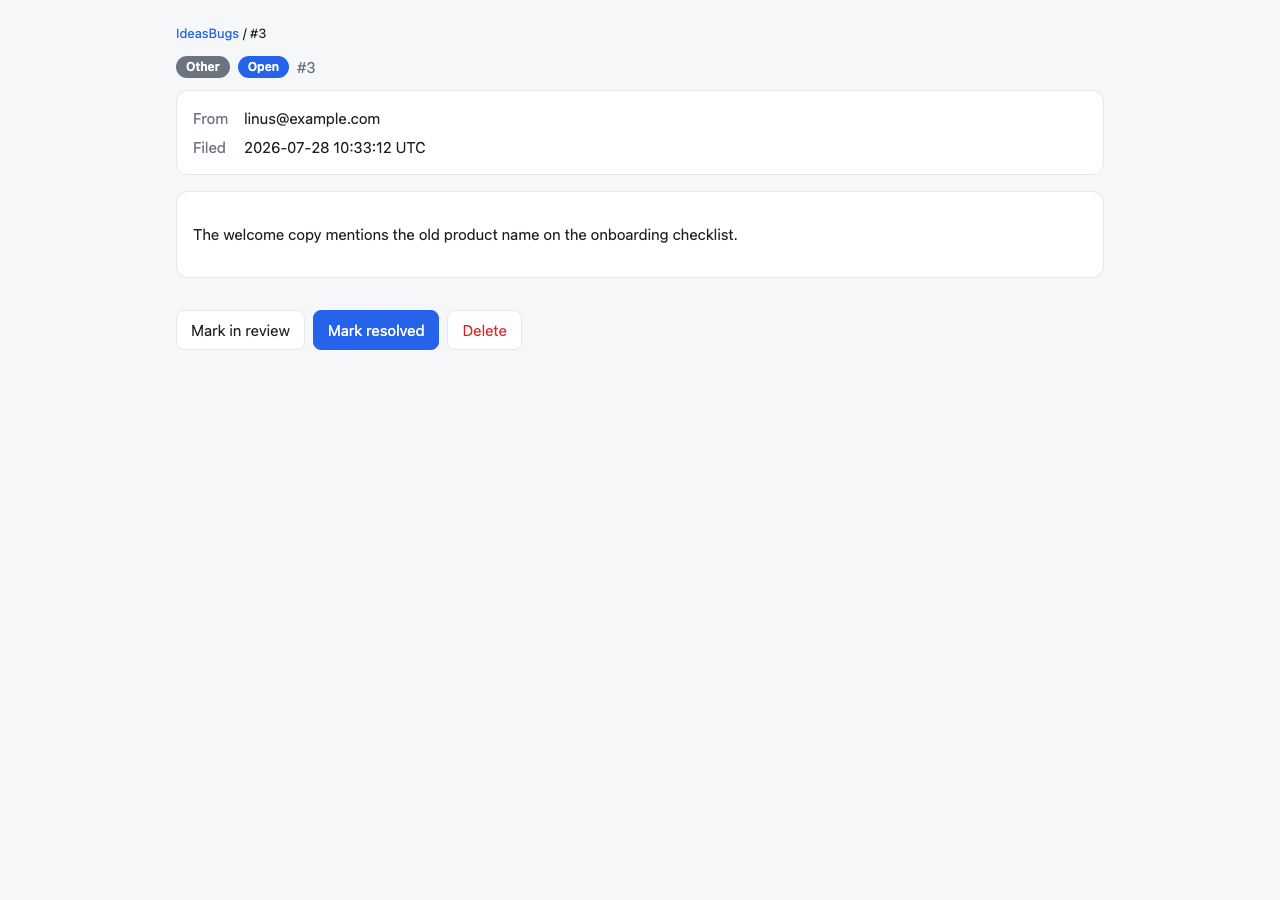
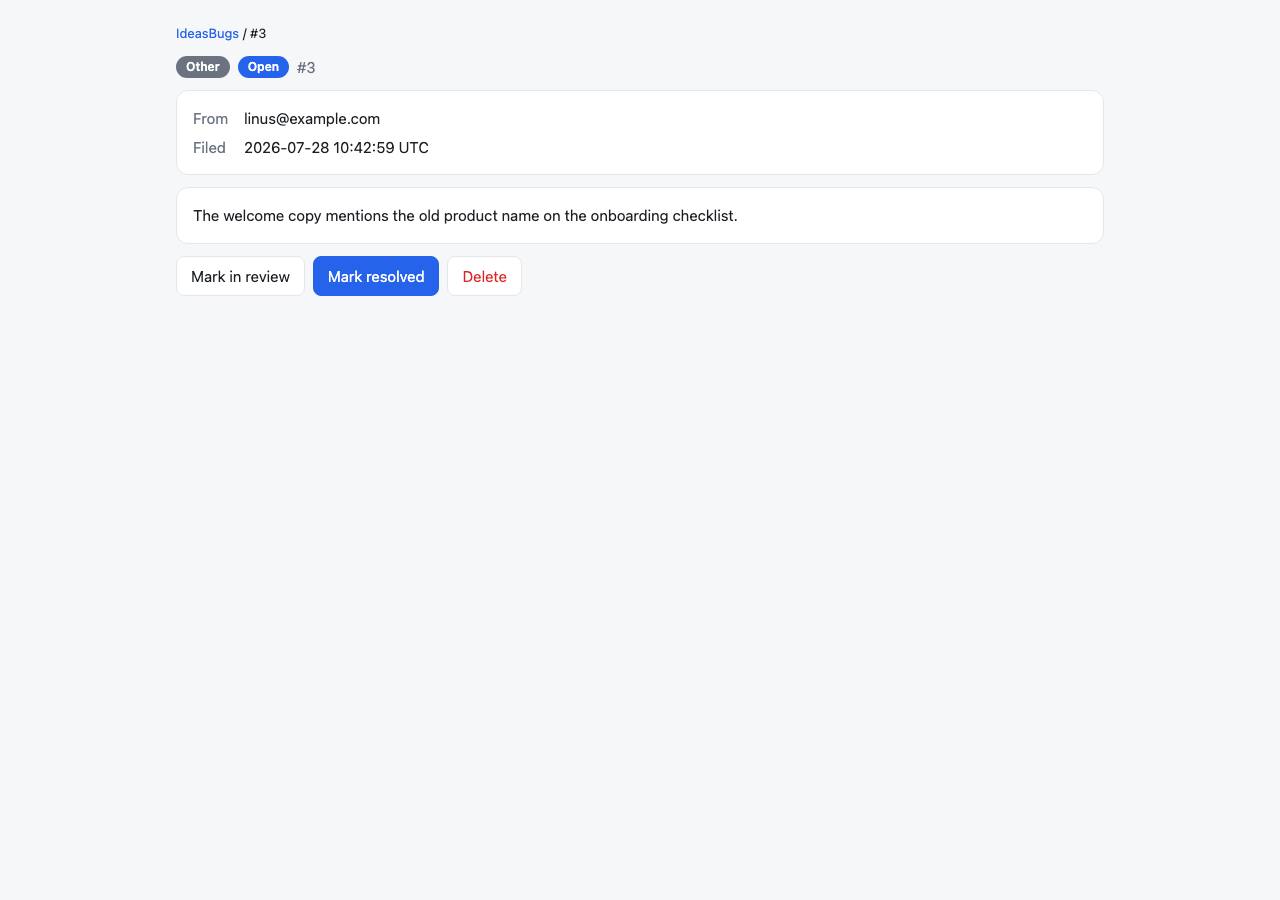
Normalize admin panel spacing

Changed region(s): [[0.1562, 0.2178, 0.5938, 0.4044], [0.2812, 0.1556, 0.3438, 0.1867]]

diff --git a/lib/ideasbugs/dashboard.css b/lib/ideasbugs/dashboard.css
@@ -52,7 +52,7 @@
                       background: var(--surface); color: var(--text); font: inherit; }
     button.primary { background: var(--accent); border-color: var(--accent); color: var(--accent-text); }
     button.danger { color: var(--bug); }
-    .message { white-space: pre-wrap; overflow-wrap: anywhere; }
+    .message { margin: 0; white-space: pre-wrap; overflow-wrap: anywhere; }
     dl { display: grid; grid-template-columns: max-content 1fr; gap: 6px 16px; margin: 0; }
     dt { color: var(--muted); }
     dd { margin: 0; overflow-wrap: anywhere; }
@@ -63,9 +63,10 @@
     .case-id { color: var(--muted); font-weight: 400; font-size: 15px; }
     .panel-head { flex: 0 0 auto; }
     .panel-head h1 { display: flex; align-items: center; gap: 8px; flex-wrap: wrap; margin-bottom: 12px; }
-    .detail-scroll { display: flex; flex-direction: column; gap: 16px; min-height: 0; }
+    .detail-scroll { display: flex; flex-direction: column; gap: 12px; min-height: 0; }
     .feedback-panel { min-width: 0; display: flex; flex-direction: column; }
     .feedback-panel .actions { flex: 0 0 auto; }
+    .feedback-panel .detail-scroll > .actions { margin: 0; }
 
     /* Desktop triage: list on the left, selected feedback on the right. */
     .ib-index, .ib-index .container { height: 100vh; height: 100dvh; }
